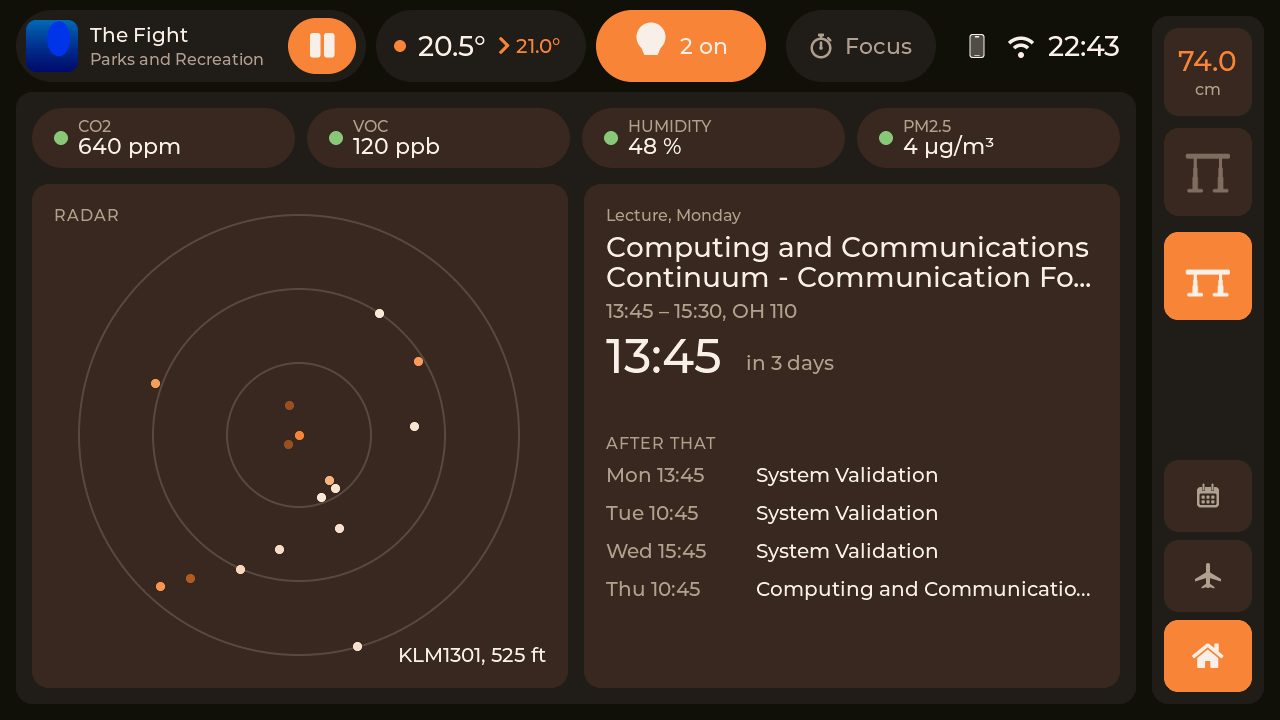
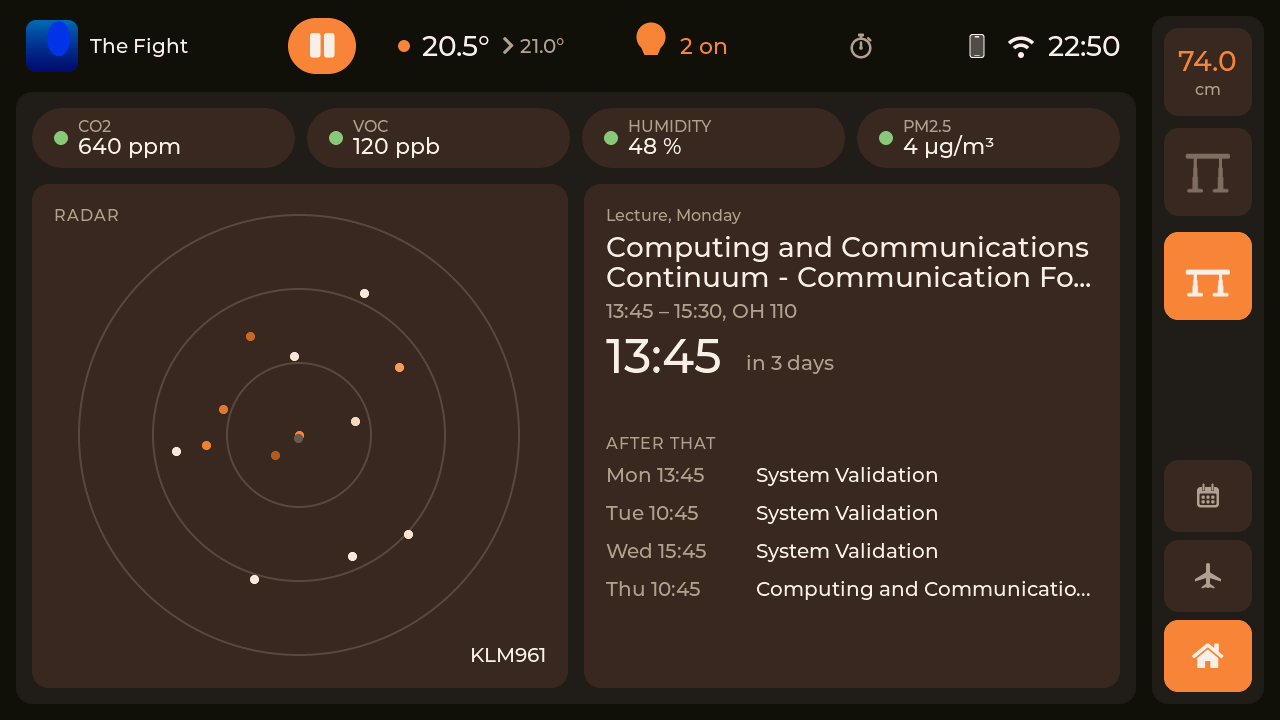
Quiet the control bar: no shape behind a slot until it is pressed or its card is out, the lights shown on in the accent rather than filling their slot with it, the track's title alone, the heating's target in the secondary, and the timer drawn alone while idle; play and pause the one button that sta

diff --git a/components/ui/control_bar.cpp b/components/ui/control_bar.cpp
@@ -53,8 +53,13 @@ lv_obj_t *make_slot(lv_obj_t *bar, std::int32_t w)
     lv_obj_set_style_pad_hor(slot, SLOT_PAD, 0);
     lv_obj_set_ext_click_area(slot, SLOT_TAP);
     lv_obj_set_scrollable(slot, false);
-    // Lit while its card is out.
-    lv_obj_set_style_bg_color(slot, lv_color_hex(theme::panel_light), LV_STATE_CHECKED);
+    // Nothing behind it at rest, so the bar reads as what it says rather than
+    // as a row of buttons; a shape only while pressed, or while its card is out.
+    lv_obj_set_style_bg_opa(slot, LV_OPA_TRANSP, 0);
+    for (const lv_state_t state : {LV_STATE_PRESSED, LV_STATE_CHECKED}) {
+        lv_obj_set_style_bg_color(slot, lv_color_hex(theme::panel), state);
+        lv_obj_set_style_bg_opa(slot, LV_OPA_COVER, state);
+    }
     return slot;
 }
 
@@ -152,7 +157,6 @@ void first_line(const char *text, char *out, std::size_t size)
 lv_obj_t *s_media_slot  = nullptr;
 Cover     s_slot_cover;
 lv_obj_t *s_slot_title  = nullptr;
-lv_obj_t *s_slot_artist = nullptr;
 lv_obj_t *s_slot_play   = nullptr;
 
 Popout    s_media_pop;
@@ -188,7 +192,6 @@ void paint_media()
     first_line(media.artist, artist, sizeof(artist));
     theme::set_text(s_slot_title, media.has_track ? media.title : "Nothing playing");
     theme::set_text_color(s_slot_title, media.has_track ? theme::text : theme::secondary);
-    theme::set_text(s_slot_artist, media.has_track ? artist : "");
     show_play(s_slot_play, media.has_track && media.playing);
     // With nothing playing, play offers the favourites.
     theme::set_usable(s_slot_play, !media.has_track || media.remote);
@@ -261,9 +264,7 @@ void build_media_slot(lv_obj_t *bar)
     const std::int32_t text_x = THUMB + TEXT_GAP;
     const std::int32_t text_w = MEDIA_W - 2 * SLOT_PAD - text_x - PLAY_W - TEXT_GAP;
     s_slot_title              = one_line(s_media_slot, theme::text, fonts::size_20(), text_w);
-    lv_obj_align(s_slot_title, LV_ALIGN_LEFT_MID, text_x, -11);
-    s_slot_artist = one_line(s_media_slot, theme::secondary, fonts::size_16(), text_w);
-    lv_obj_align(s_slot_artist, LV_ALIGN_LEFT_MID, text_x, 13);
+    lv_obj_align(s_slot_title, LV_ALIGN_LEFT_MID, text_x, 0);
 
     s_slot_play = theme::make_button(s_media_slot, LV_SYMBOL_PLAY, theme::panel_light, fonts::size_28());
     lv_obj_set_size(s_slot_play, PLAY_W, BTN_H);
@@ -380,15 +381,14 @@ void paint_heat()
     }
     const std::uint32_t ink = t.state == Hvac::Heating ? theme::primary : t.state == Hvac::Idle ? theme::amber : theme::secondary;
     theme::set_bg_color(s_heat_dot, off ? theme::secondary : ink);
-    theme::set_text_color(s_heat_target, off ? theme::secondary : theme::primary);
+    theme::set_text_color(s_heat_target, theme::secondary);
 }
 
 void build_heat_slot(lv_obj_t *bar)
 {
     s_heat_slot = make_slot(bar, HEAT_W);
     lv_obj_set_flex_flow(s_heat_slot, LV_FLEX_FLOW_ROW);
-    lv_obj_set_flex_align(s_heat_slot, LV_FLEX_ALIGN_START, LV_FLEX_ALIGN_CENTER, LV_FLEX_ALIGN_CENTER);
-    lv_obj_set_style_pad_left(s_heat_slot, SLOT_PAD + theme::space::s, 0);
+    lv_obj_set_flex_align(s_heat_slot, LV_FLEX_ALIGN_CENTER, LV_FLEX_ALIGN_CENTER, LV_FLEX_ALIGN_CENTER);
     lv_obj_set_style_pad_column(s_heat_slot, TEXT_GAP, 0);
     lv_obj_add_event_cb(s_heat_slot, [](lv_event_t *) { open_under(s_heat_pop, s_heat_slot); }, LV_EVENT_CLICKED,
                         nullptr);
@@ -436,10 +436,10 @@ void paint_lights_slot()
             std::snprintf(text, sizeof(text), "On");
         }
     }
+    // On in the accent, rather than the whole slot filled with it.
     theme::set_text(s_lights_text, text);
-    lv_obj_set_state(s_lights_slot, LV_STATE_CHECKED, lights.on);
-    theme::set_text_color(s_lights_text, lights.on ? theme::text : theme::secondary);
-    lv_obj_set_style_image_recolor(s_lights_bulb, lv_color_hex(lights.on ? theme::text : theme::secondary), 0);
+    theme::set_text_color(s_lights_text, lights.on ? theme::primary : theme::secondary);
+    lv_obj_set_style_image_recolor(s_lights_bulb, lv_color_hex(lights.on ? theme::primary : theme::secondary), 0);
 
     for (int i = 0; i < kLightCount; ++i) {
         lv_obj_t        *button = s_light_buttons[i];
@@ -475,7 +475,6 @@ void lights_touched(lv_event_t *e)
 void build_lights_slot(lv_obj_t *bar)
 {
     s_lights_slot = make_slot(bar, LIGHTS_W);
-    theme::fill_accent(s_lights_slot, LV_STATE_CHECKED);
     lv_obj_set_flex_flow(s_lights_slot, LV_FLEX_FLOW_ROW);
     lv_obj_set_flex_align(s_lights_slot, LV_FLEX_ALIGN_CENTER, LV_FLEX_ALIGN_CENTER, LV_FLEX_ALIGN_CENTER);
     lv_obj_set_style_pad_column(s_lights_slot, TEXT_GAP, 0);
@@ -491,8 +490,8 @@ void build_lights_slot(lv_obj_t *bar)
 
 void build_lights_card(lv_obj_t *screen)
 {
-    // Not lit by its card: the slot is lit while the lights are on.
-    lv_obj_t *card = build_popout(s_lights_pop, screen, LIGHTS_CARD_W, GAP, GAP, CARD_IDLE_MS);
+    lv_obj_t *card      = build_popout(s_lights_pop, screen, LIGHTS_CARD_W, GAP, GAP, CARD_IDLE_MS);
+    s_lights_pop.button = s_lights_slot;
     lv_obj_set_style_pad_all(card, CARD_PAD, 0);
     lv_obj_set_height(card, LV_SIZE_CONTENT);
     lv_obj_set_flex_flow(card, LV_FLEX_FLOW_COLUMN);

diff --git a/components/ui/fullscreen_chrome.cpp b/components/ui/fullscreen_chrome.cpp
@@ -250,14 +250,11 @@ void show_top_focus()
     show_focus(*s_top);
     const bool away = s_presence_gate && !status_state().present;
     const bool idle = focus_idle(focus_state());
-    // Idle, the timer drawn and what it is; the slot keeps its width either way.
+    // Idle, the timer drawn alone; the slot keeps its width either way.
     lv_obj_set_hidden(s_top->badge, away);
     lv_obj_set_hidden(s_idle_mark, !idle);
     lv_obj_set_hidden(s_top->dot, idle);
-    if (idle) {
-        theme::set_text(s_top->left, "Focus");
-    }
-    theme::set_text_color(s_top->left, idle ? theme::secondary : theme::text);
+    lv_obj_set_hidden(s_top->left, idle);
 }
 
 lv_obj_t *make_slot(lv_obj_t *parent, std::int32_t w)
@@ -320,8 +317,12 @@ void create_top_bar(lv_obj_t *parent)
     s_clocks.emplace_back();
     s_top = &s_clocks.back();
     build_badge(*s_top, s_top_bar, [](lv_event_t *) { toggle_focus_popout(s_top->badge, s_top_bar); });
-    lv_obj_set_style_bg_color(s_top->badge, lv_color_hex(theme::panel_light), LV_STATE_CHECKED);
-    lv_obj_set_style_bg_color(s_top->badge, lv_color_hex(theme::panel_light), LV_STATE_PRESSED);
+    // As the bar's other slots: a shape only while pressed or while its card is out.
+    lv_obj_set_style_bg_opa(s_top->badge, LV_OPA_TRANSP, 0);
+    for (const lv_state_t state : {LV_STATE_PRESSED, LV_STATE_CHECKED}) {
+        lv_obj_set_style_bg_color(s_top->badge, lv_color_hex(theme::panel), state);
+        lv_obj_set_style_bg_opa(s_top->badge, LV_OPA_COVER, state);
+    }
     lv_obj_set_height(s_top->badge, TOP_H);
     lv_obj_set_flex_align(s_top->badge, LV_FLEX_ALIGN_CENTER, LV_FLEX_ALIGN_CENTER, LV_FLEX_ALIGN_CENTER);
     lv_obj_set_ext_click_area(s_top->badge, TAP_MARGIN);
